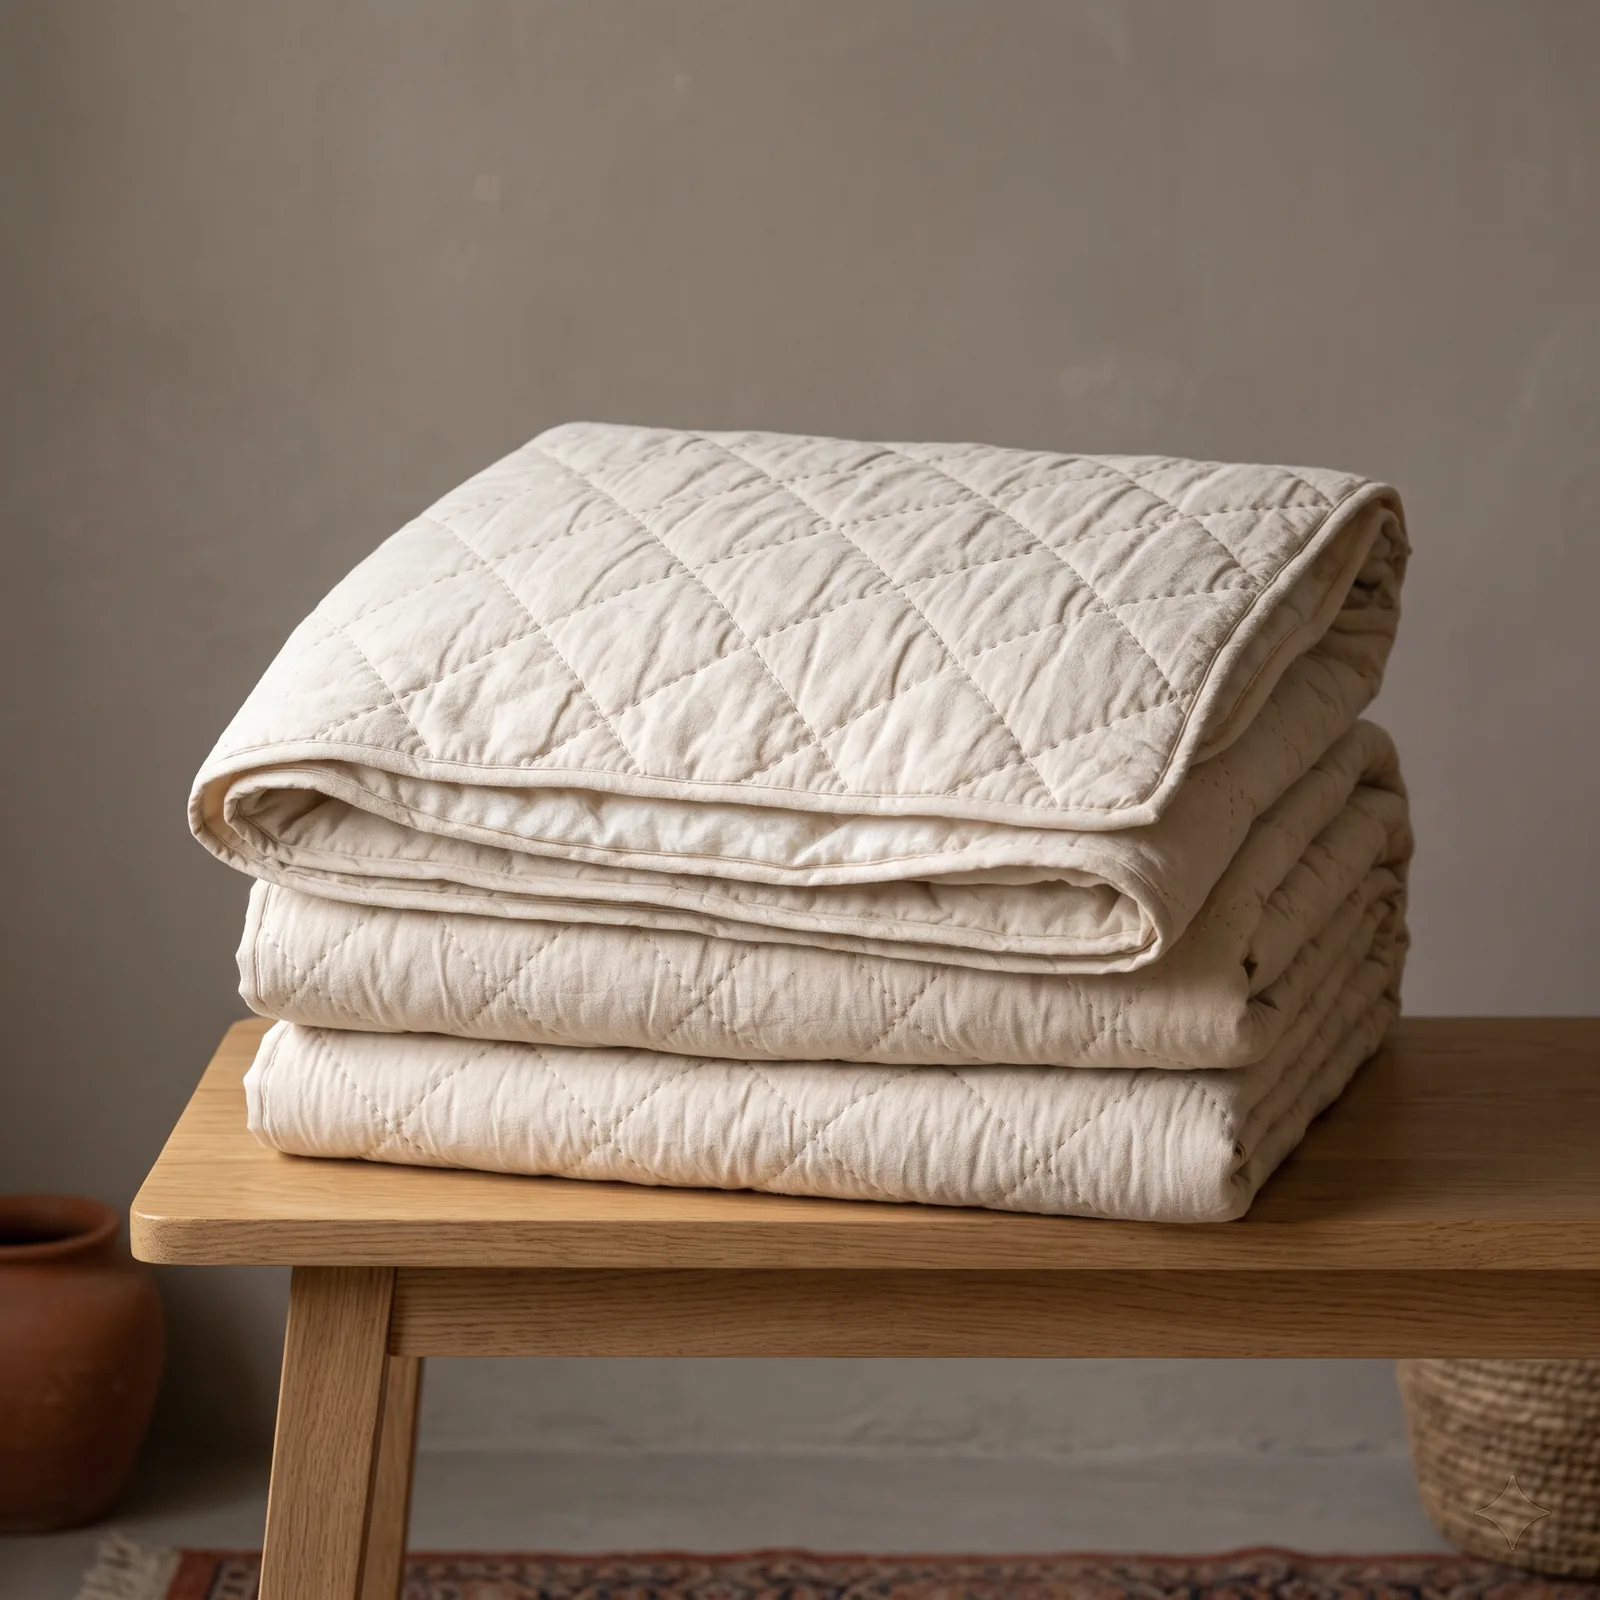
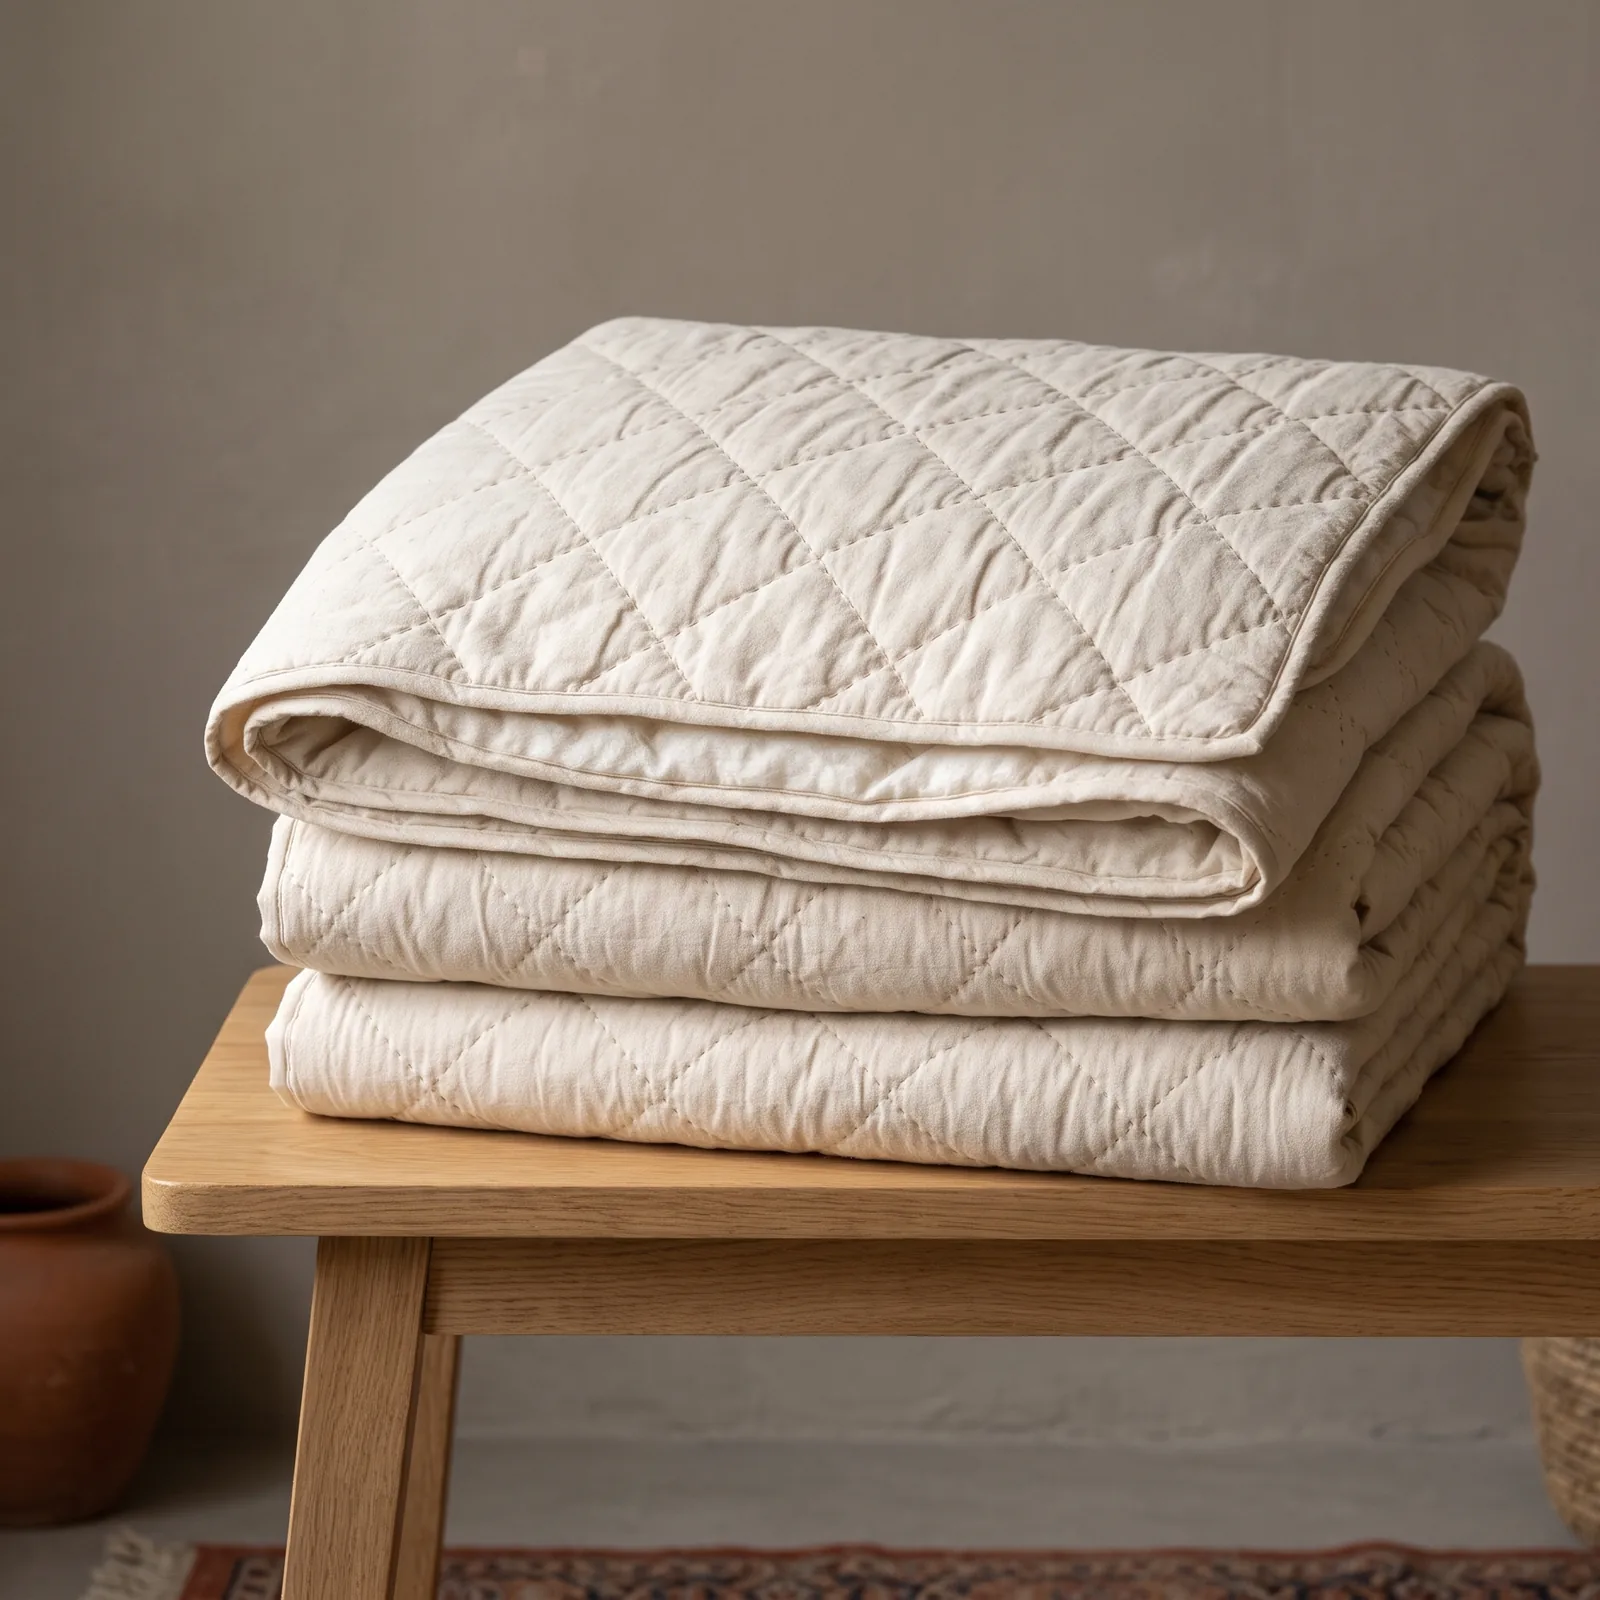
Add remaining product photos; crop sparkle where product stays whole

diff --git a/src/lib/seed.ts b/src/lib/seed.ts
@@ -30,7 +30,7 @@ export const seedProducts: Product[] = [
     gsm: 250,
     colors,
     sizes: quiltSizes(1899, 2699, 2999),
-    images: ["/media/products/cotton-white-hero.webp", "/media/products/cotton-white-bed.webp", "/media/products/cotton-beige-hero.webp", "/media/products/cotton-beige-bed.webp", "/media/products/cotton-navy-bed.webp"],
+    images: ["/media/products/cotton-white-hero.webp", "/media/products/cotton-white-bed.webp", "/media/products/cotton-beige-hero.webp", "/media/products/cotton-beige-bed.webp", "/media/products/cotton-navy-bed.webp", "/media/products/size-small.webp", "/media/products/size-medium.webp", "/media/products/pack-cotton-bag.webp", "/media/products/artisan-hands.webp"],
     care: "Dry clean recommended for the first wash. Air in shade every few weeks. Store folded in a cotton bag.",
     featured: true,
     active: true,
@@ -49,7 +49,7 @@ export const seedProducts: Product[] = [
     gsm: 200,
     colors,
     sizes: quiltSizes(1299, 1799, 1999),
-    images: ["/media/products/poly-white-hero.webp", "/media/products/poly-white-bed.webp", "/media/products/poly-beige-hero.webp", "/media/products/poly-beige-bed.webp"],
+    images: ["/media/products/poly-white-hero.webp", "/media/products/poly-white-bed.webp", "/media/products/poly-beige-hero.webp", "/media/products/poly-beige-bed.webp", "/media/products/poly-navy-hero.webp", "/media/products/poly-navy-bed.webp", "/media/products/detail-poly-edge.webp"],
     care: "Gentle machine wash, cold. Dry flat in shade. Do not tumble dry.",
     featured: true,
     active: true,
@@ -71,7 +71,7 @@ export const seedProducts: Product[] = [
       { id: "m", label: "Medium", dims: "M", price: 349 },
       { id: "l", label: "Large", dims: "L", price: 399 },
     ],
-    images: [],
+    images: ["/media/products/pillow-white-pair.webp"],
     care: "Machine wash cold with similar colours. Warm iron.",
     featured: true,
     active: true,
